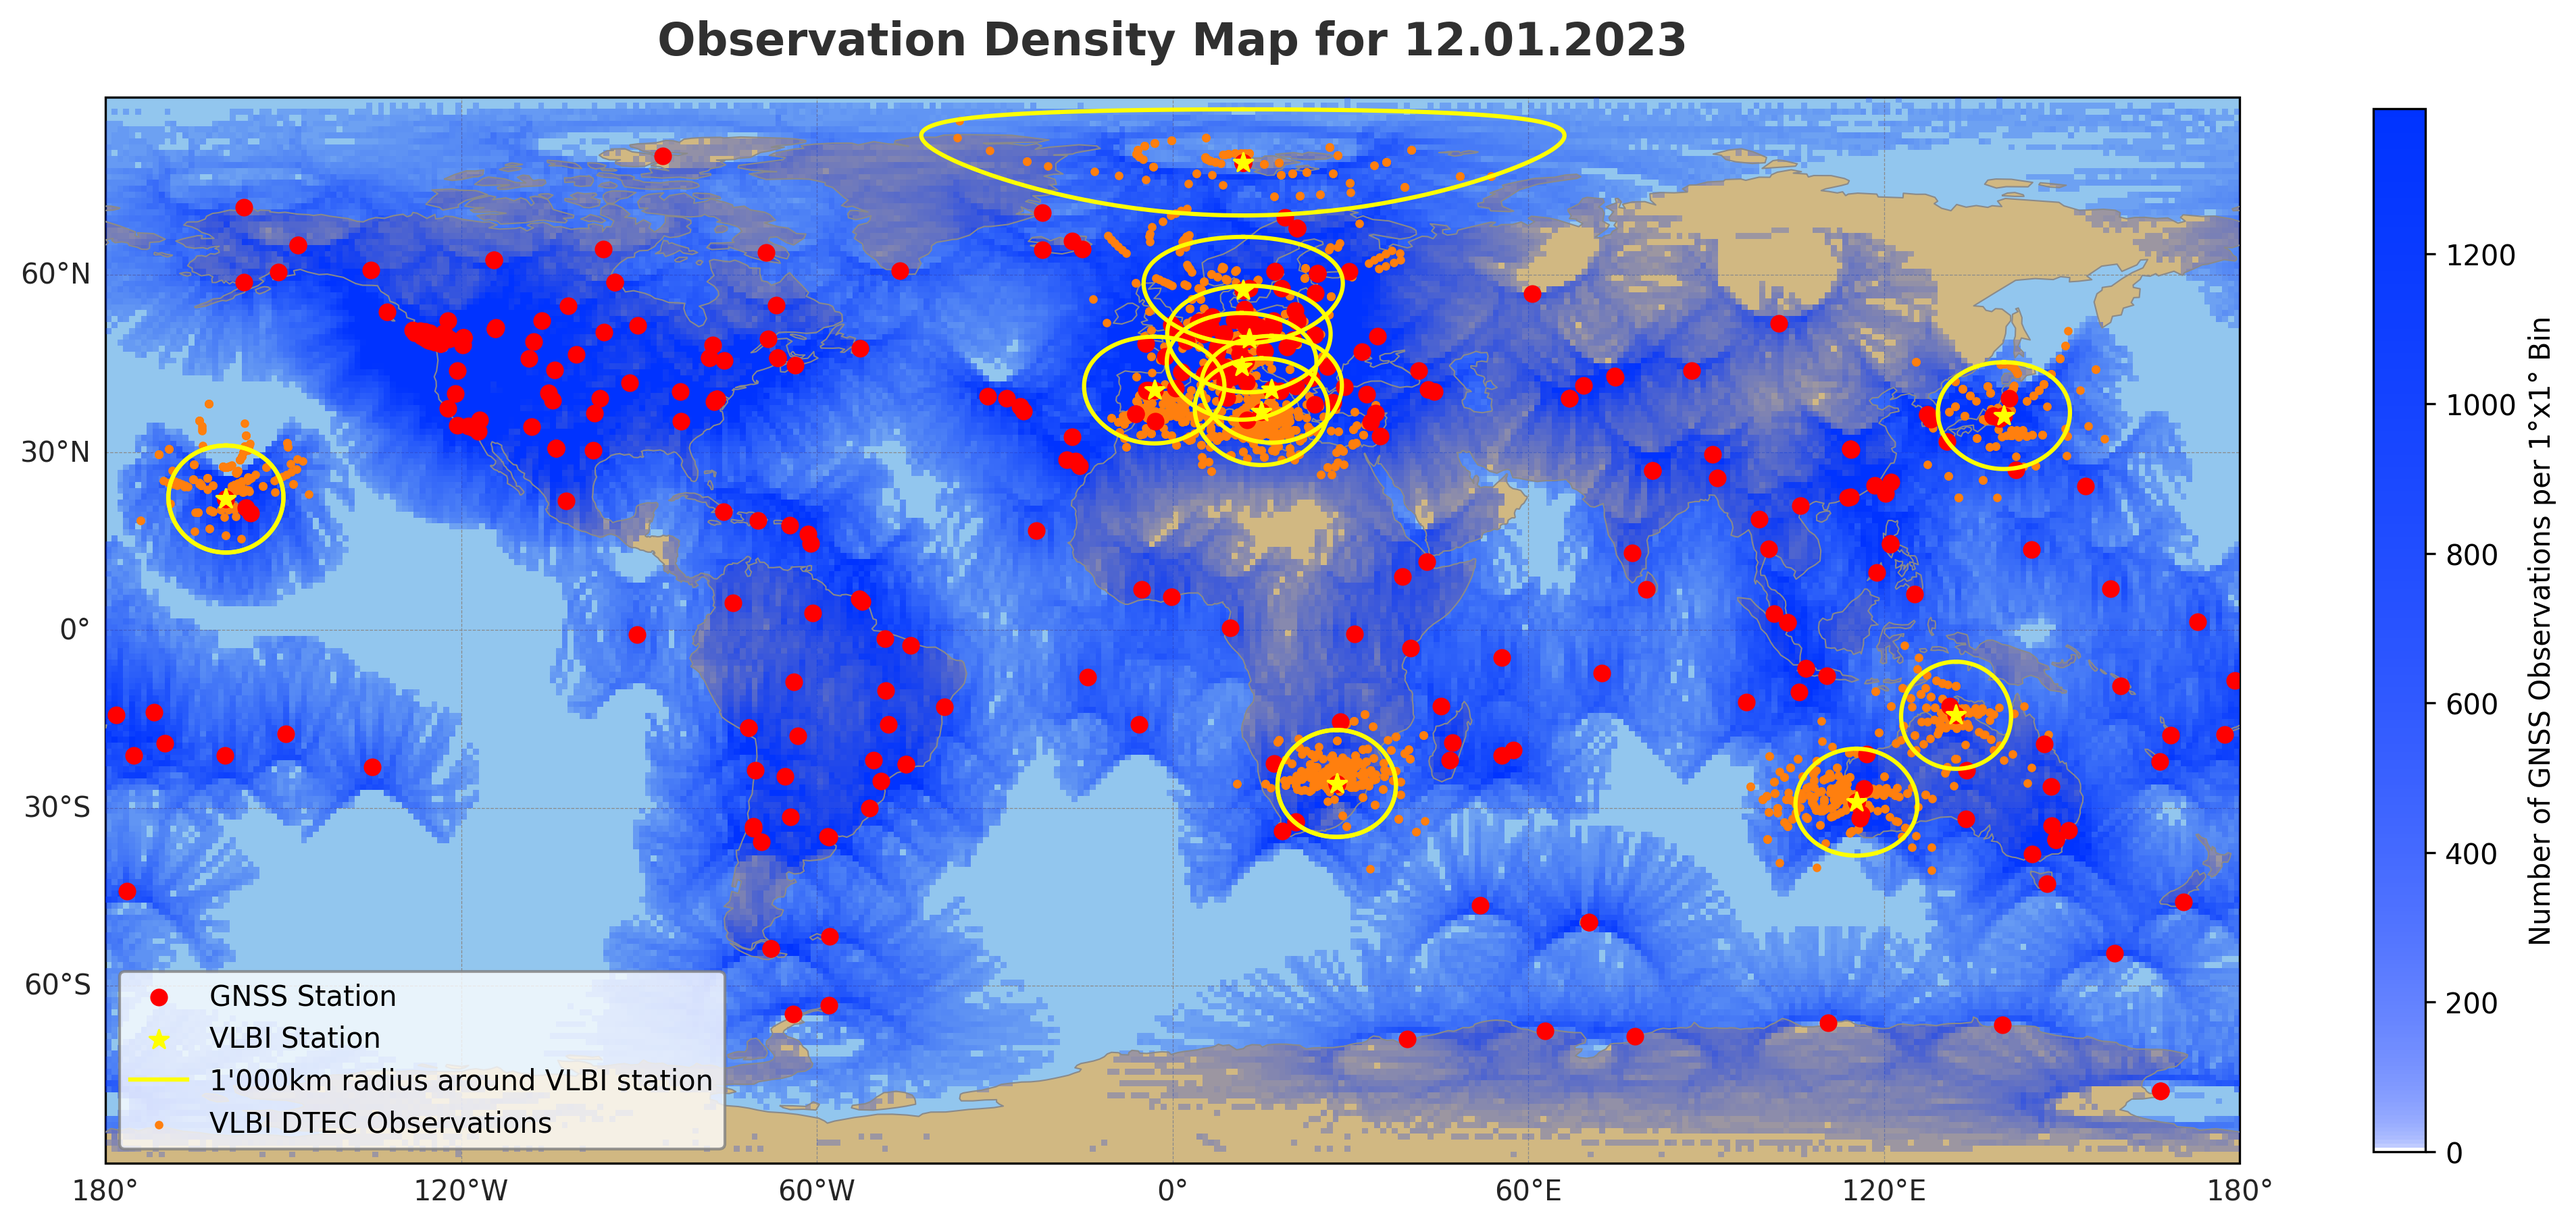
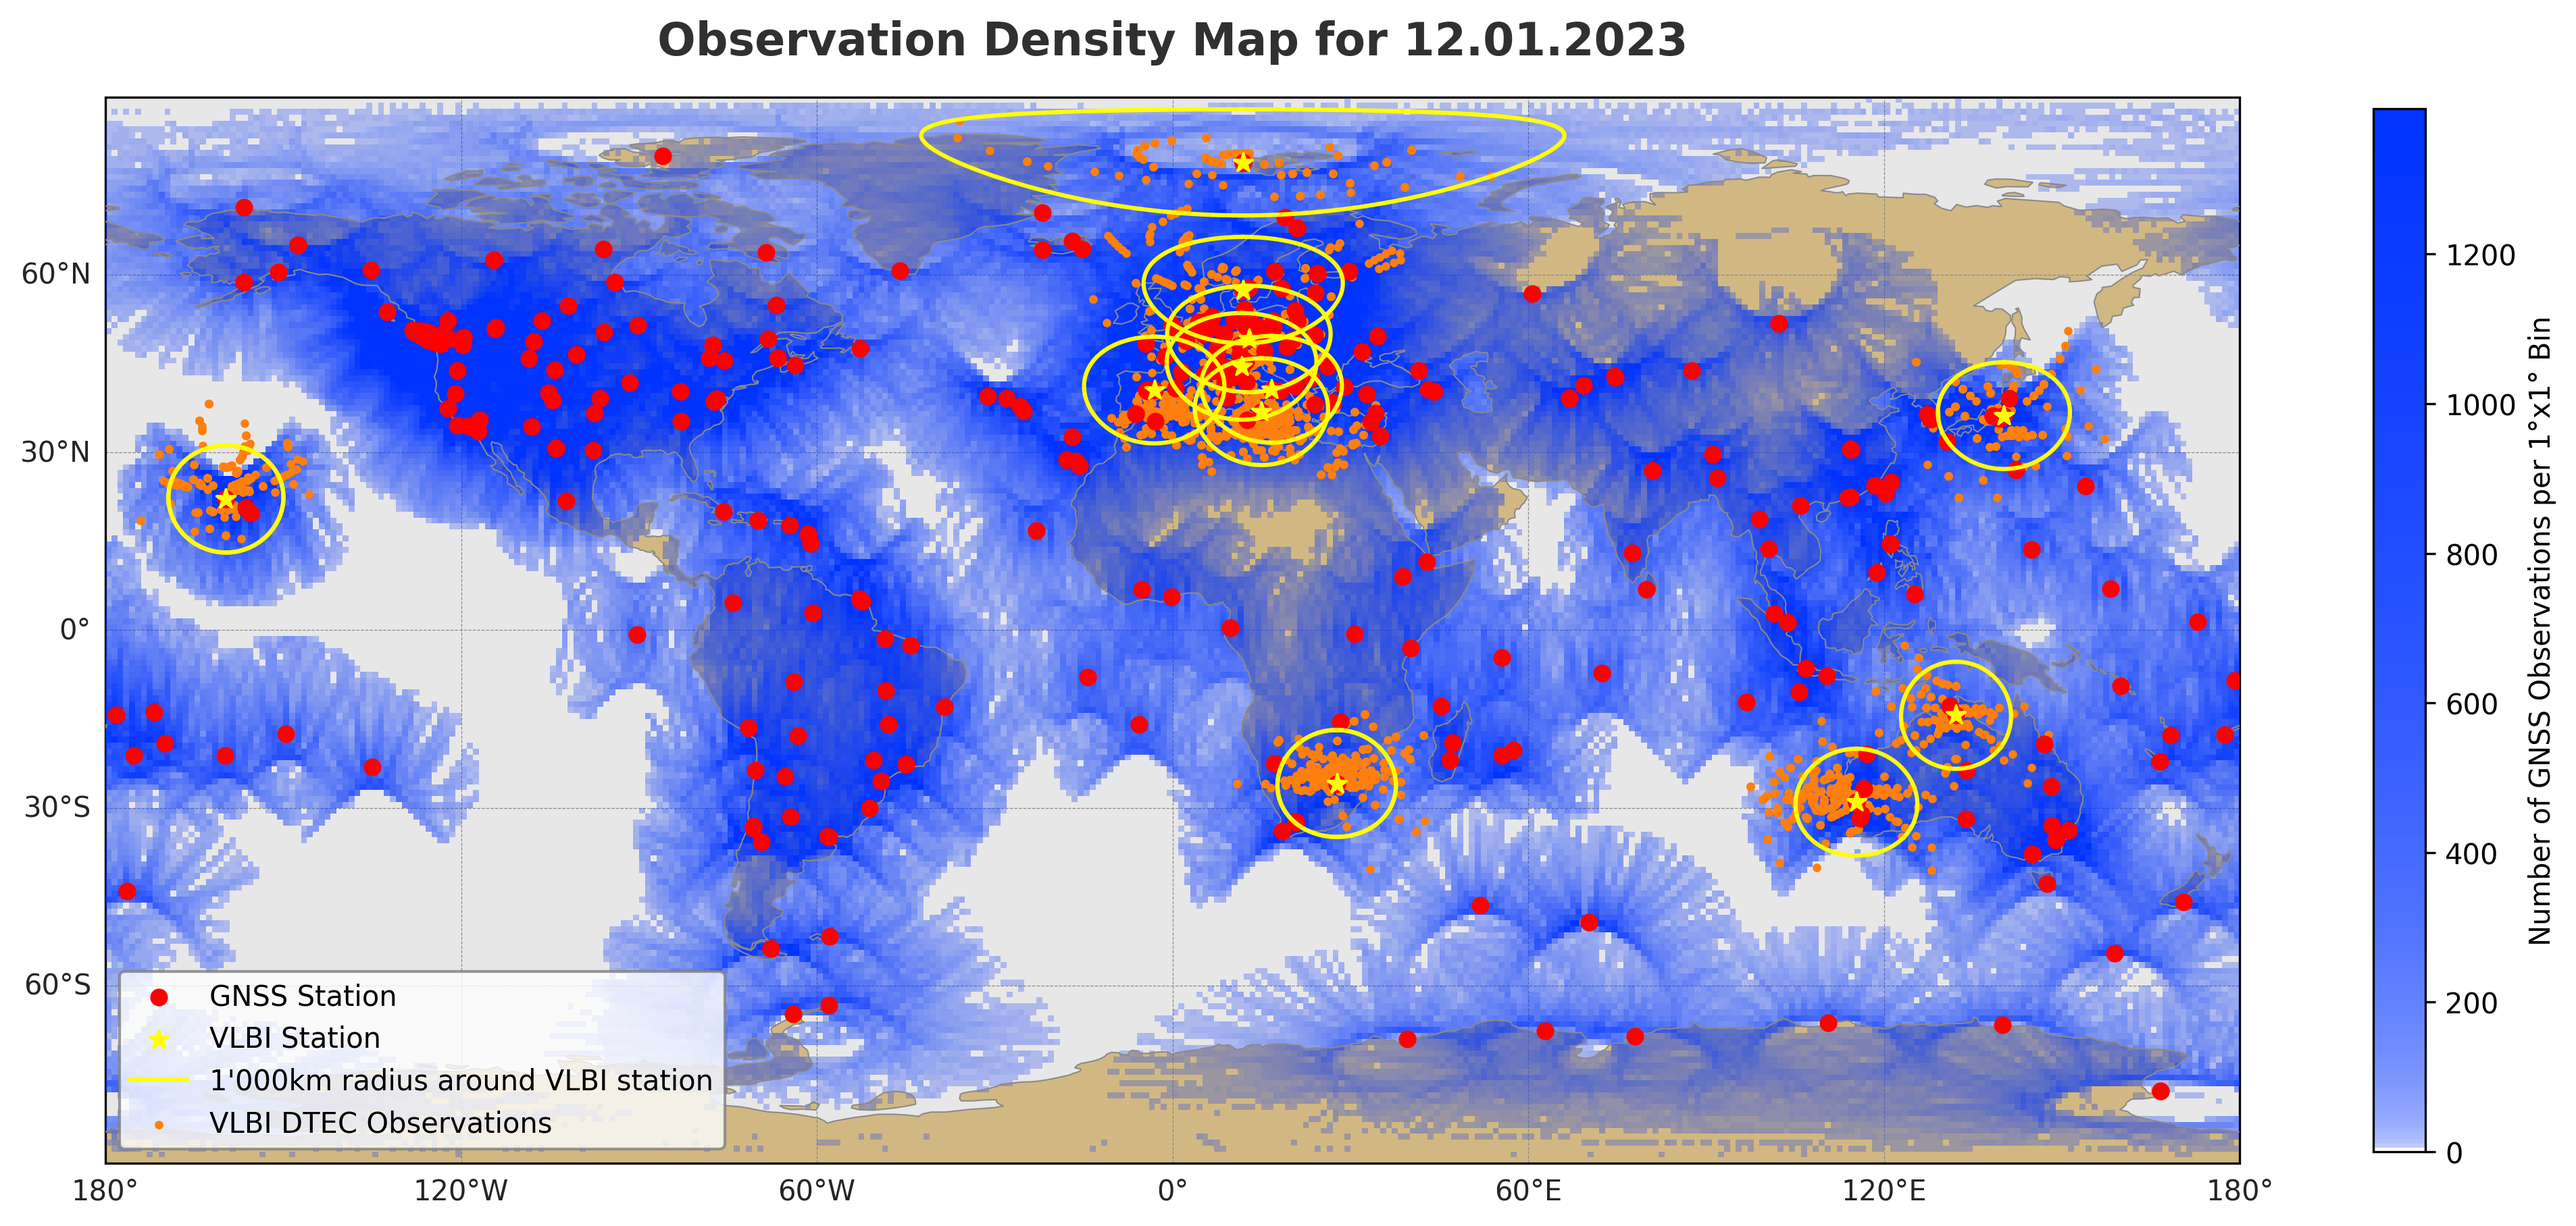
changed color of ocean

diff --git a/src/data_processing/plot_obs_IPPs.py b/src/data_processing/plot_obs_IPPs.py
@@ -516,7 +516,7 @@ def plot_obs_density_map(gnss_data, vlbi_vtec_data, vlbi_dtec_data, year, doy, p
     ax.set_global() # Sets the extent to show the whole world
 
     # --- Basemap Colors (Richer Blue & Beige Pastels) ---
-    ocean_color = "#92C6EE"
+    ocean_color = "#E7E7E7"
     land_color = "#D1B882"
 
     ax.add_feature(cfeature.OCEAN, facecolor=ocean_color, edgecolor='none')
